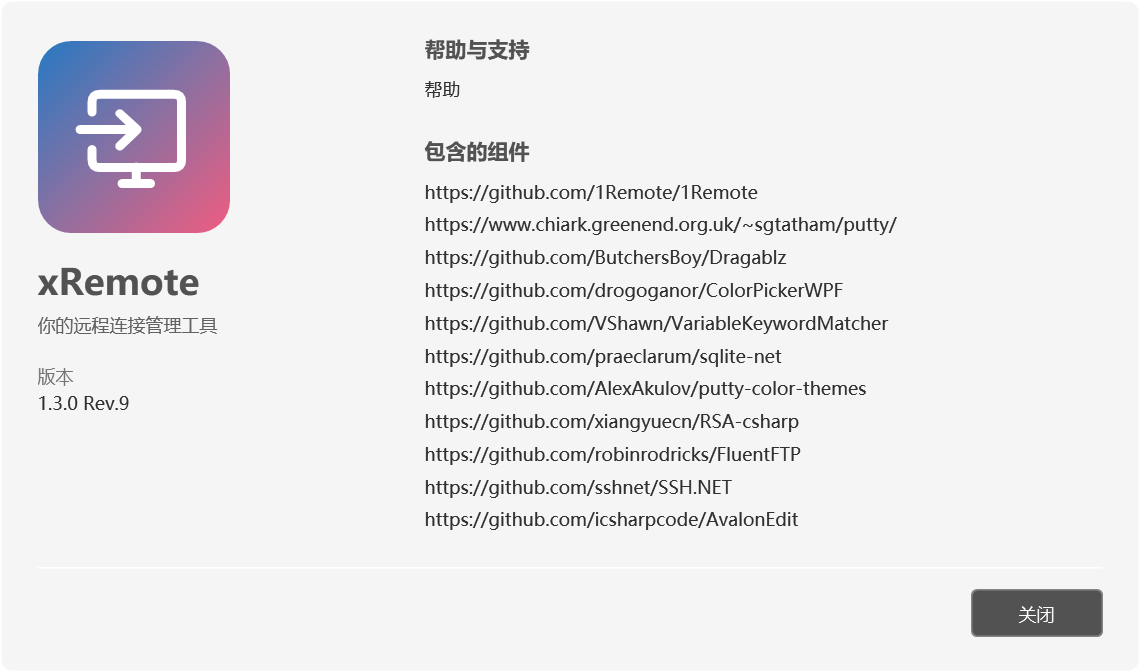
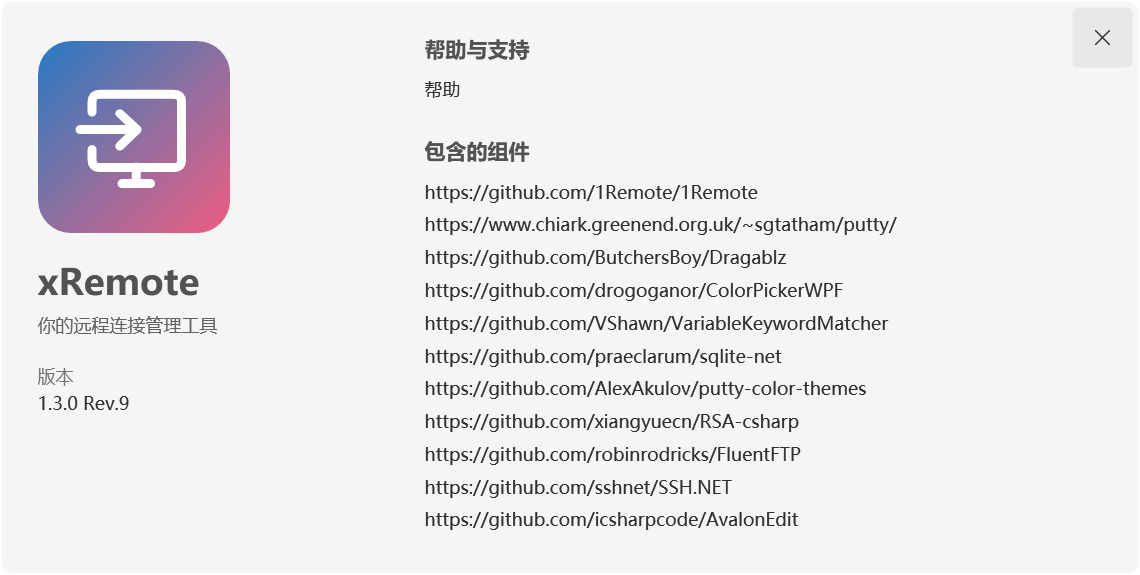
fix: move About card close action to the upper right [skip netlify]

diff --git a/Ui/View/AboutPageView.xaml b/Ui/View/AboutPageView.xaml
@@ -9,6 +9,7 @@
                          Background="Transparent" AllowsTransparency="True" SizeToContent="WidthAndHeight">
     <Border Width="760" Background="{DynamicResource PrimaryMidBrush}"
             BorderBrush="{DynamicResource PrimaryLightBrush}" BorderThickness="1" CornerRadius="8">
+        <Grid>
         <Grid Margin="24,22">
             <Grid.Resources>
                 <Style TargetType="TextBlock" BasedOn="{StaticResource TextBlockBase}">
@@ -32,7 +33,6 @@
                     </Style.Triggers>
                 </Style>
             </Grid.Resources>
-            <Grid.RowDefinitions><RowDefinition Height="Auto" /><RowDefinition Height="Auto" /></Grid.RowDefinitions>
             <ScrollViewer x:Name="ScrollViewerMain" MaxHeight="420" VerticalScrollBarVisibility="Auto"
                           HorizontalScrollBarVisibility="Disabled" Padding="0,0,10,0">
                 <Grid>
@@ -103,10 +103,28 @@
                     </StackPanel>
                 </Grid>
             </ScrollViewer>
-            <Border Grid.Row="1" BorderBrush="{DynamicResource PrimaryLightBrush}" BorderThickness="0,1,0,0"
-                    Margin="0,18,0,0" Padding="0,14,0,0">
-                <Button Content="{DynamicResource Close}" Command="{Binding CmdClose}" MinWidth="88" MinHeight="32" Padding="14,6" HorizontalAlignment="Right" />
-            </Border>
+        </Grid>
+            <Button x:Name="CloseAboutButton" Command="{Binding CmdClose}" IsCancel="True" Background="Transparent"
+                    Foreground="{DynamicResource PrimaryTextBrush}" BorderThickness="0" Padding="0" FocusVisualStyle="{x:Null}"
+                    Width="40" Height="40" Margin="4" HorizontalAlignment="Right" VerticalAlignment="Top"
+                    ToolTip="{DynamicResource Close}" AutomationProperties.Name="{DynamicResource Close}">
+                <Button.Style>
+                    <Style TargetType="Button">
+                        <Setter Property="Template"><Setter.Value><ControlTemplate TargetType="Button">
+                            <Border x:Name="CloseSurface" Background="{TemplateBinding Background}" CornerRadius="4">
+                                <ContentPresenter HorizontalAlignment="Center" VerticalAlignment="Center" />
+                            </Border>
+                            <ControlTemplate.Triggers>
+                                <Trigger Property="IsMouseOver" Value="True"><Setter TargetName="CloseSurface" Property="Background" Value="{DynamicResource MenuHoverBrush}" /></Trigger>
+                                <Trigger Property="IsKeyboardFocused" Value="True"><Setter TargetName="CloseSurface" Property="Background" Value="{DynamicResource MenuHoverBrush}" /></Trigger>
+                                <Trigger Property="IsPressed" Value="True"><Setter TargetName="CloseSurface" Property="Opacity" Value="0.7" /></Trigger>
+                            </ControlTemplate.Triggers>
+                        </ControlTemplate></Setter.Value></Setter>
+                    </Style>
+                </Button.Style>
+                <Path Width="10" Height="10" Data="M0,0 L10,10 M10,0 L0,10" StrokeThickness="1"
+                      Stroke="{Binding Foreground, RelativeSource={RelativeSource AncestorType=Button}}" />
+            </Button>
         </Grid>
     </Border>
 </styles:WindowChromeBase>
